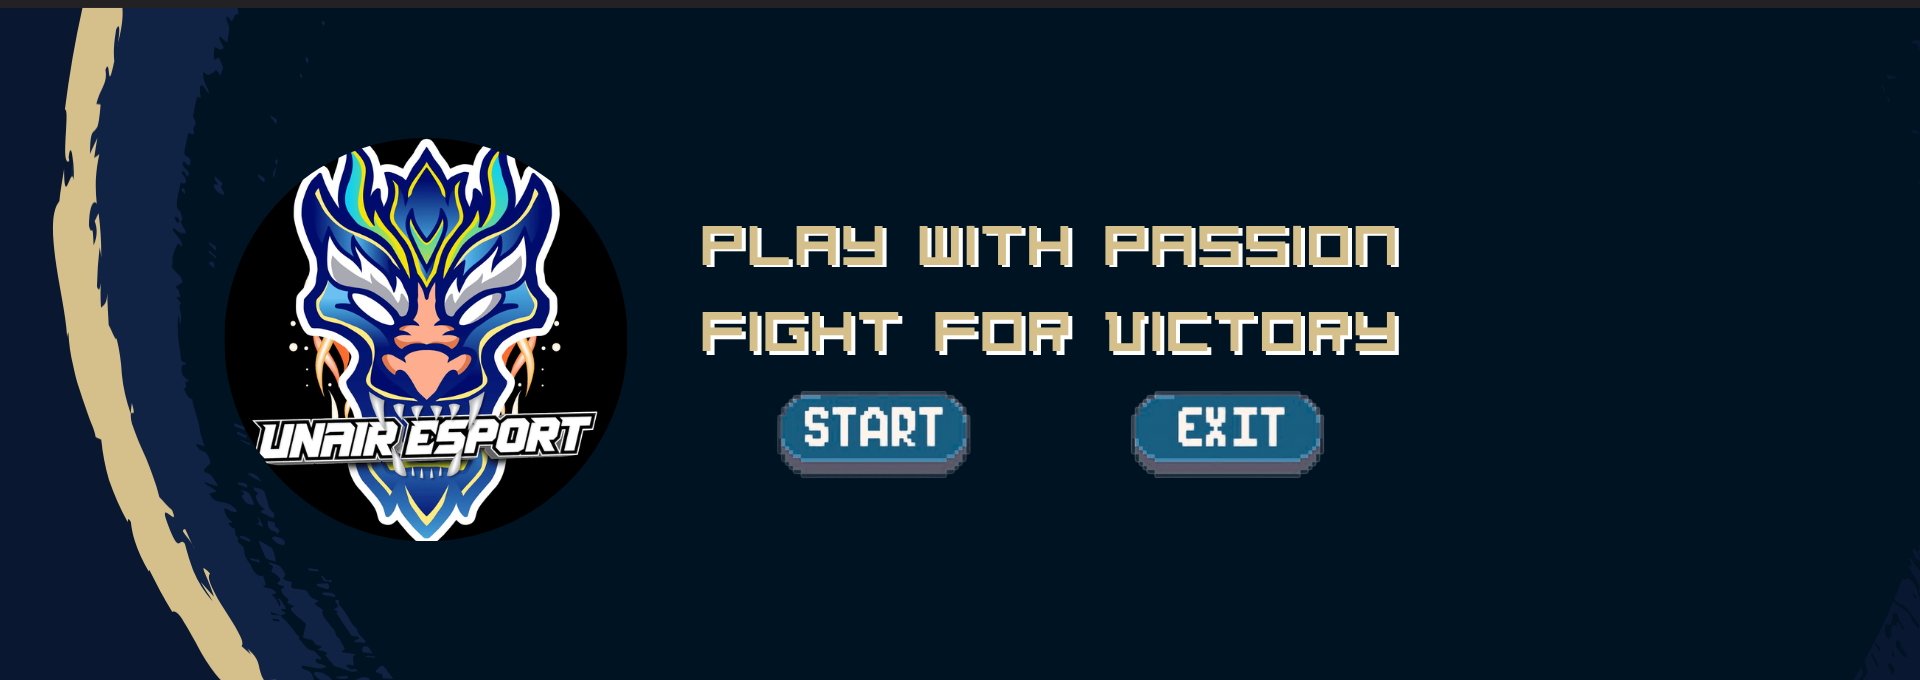
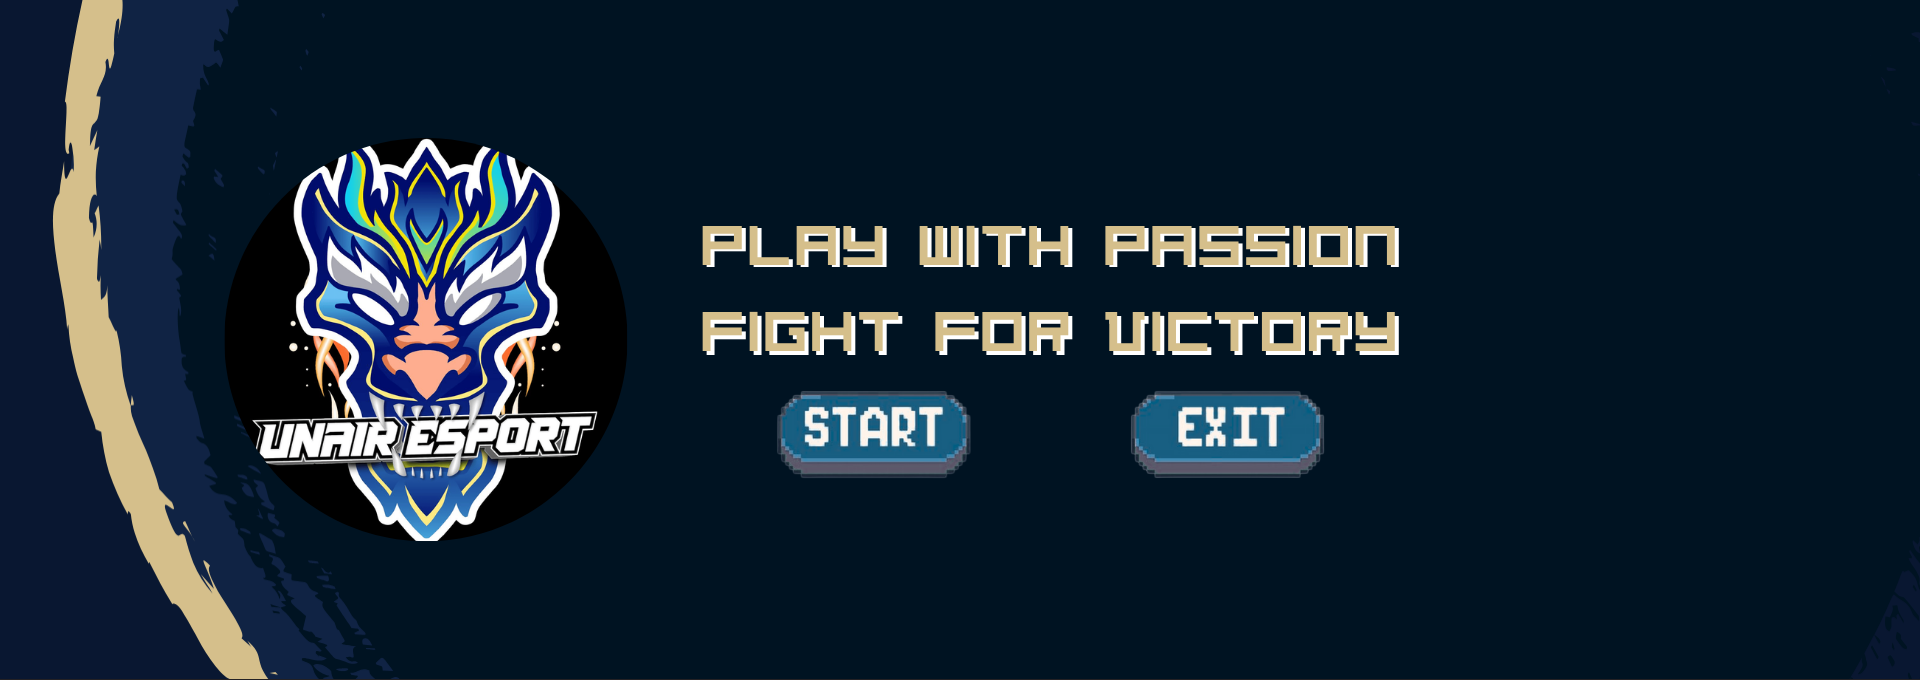
Finish make the main web.

diff --git a/index.html b/index.html
@@ -19,9 +19,9 @@
                 <div class="navBarLogo">
                     <div class="logoCircle"></div>
                 </div>
-                <div class="navBarJudul">
+                <a href="http://airlanggaesport.github.io/" class="navBarJudul">
                     UNAIR E-SPORT
-                </div>
+                </a>
                 <div class="navBarSpace"></div>
                 <div class="navBarMenu">
                     <input type="checkbox" id="menuCB">
@@ -63,7 +63,7 @@
                             </a>
                         </div>
                         <div class="NBM5" href="">
-                            <a href="">
+                            <a href="#PartnershipSec">
                                 <div class="menuChA">
                                     <span class="material-symbols-outlined" id="PartnerLog">handshake</span>
                                 </div>
@@ -309,50 +309,52 @@
                     DIVISION (STAFF AND PLAYER)
                 </div>
                 <div class="divisionCardDlider">
-                    <div class="divisionCard">
-                        <img src="" alt="">
-                        <a class="moreButtonDivision" href="">MORE</a>
-                    </div>
-                    <div class="divisionCard">
-                        <img src="" alt="">
-                        <a class="moreButtonDivision" href="">MORE</a>
-                    </div>
-                    <div class="divisionCard">
-                        <img src="" alt="">
-                        <a class="moreButtonDivision" href="">MORE</a>
-                    </div>
-                    <div class="divisionCard">
-                        <img src="" alt="">
-                        <a class="moreButtonDivision" href="">MORE</a>
-                    </div>
-                    <div class="divisionCard">
-                        <img src="" alt="">
-                        <a class="moreButtonDivision" href="">MORE</a>
-                    </div>
-                    <div class="divisionCard">
-                        <img src="" alt="">
-                        <a class="moreButtonDivision" href="">MORE</a>
-                    </div>
-                    <div class="divisionCard">
-                        <img src="" alt="">
-                        <a class="moreButtonDivision" href="">MORE</a>
-                    </div>
-                    <div class="divisionCard">
-                        <img src="" alt="">
-                        <a class="moreButtonDivision" href="">MORE</a>
-                    </div>
-                    <div class="divisionCard">
-                        <img src="" alt="">
-                        <a class="moreButtonDivision" href="">MORE</a>
-                    </div>
-                    <div class="divisionCard">
-                        <img src="" alt="">
-                        <a class="moreButtonDivision" href="">MORE</a>
+                    <div class="innerdivisionCardDlider">
+                        <div class="divisionCard">
+                            <div class="imgDivCard"></div>
+                            <a class="moreButtonDivision" href="">MORE</a>
+                        </div>
+                        <div class="divisionCard">
+                            <div class="imgDivCard"></div>
+                            <a class="moreButtonDivision" href="">MORE</a>
+                        </div>
+                        <div class="divisionCard">
+                            <div class="imgDivCard"></div>
+                            <a class="moreButtonDivision" href="">MORE</a>
+                        </div>
+                        <div class="divisionCard">
+                            <div class="imgDivCard"></div>
+                            <a class="moreButtonDivision" href="">MORE</a>
+                        </div>
+                        <div class="divisionCard">
+                            <div class="imgDivCard"></div>
+                            <a class="moreButtonDivision" href="">MORE</a>
+                        </div>
+                        <div class="divisionCard">
+                            <div class="imgDivCard"></div>
+                            <a class="moreButtonDivision" href="">MORE</a>
+                        </div>
+                        <div class="divisionCard">
+                            <div class="imgDivCard"></div>
+                            <a class="moreButtonDivision" href="">MORE</a>
+                        </div>
+                        <div class="divisionCard">
+                            <div class="imgDivCard"></div>
+                            <a class="moreButtonDivision" href="">MORE</a>
+                        </div>
+                        <div class="divisionCard">
+                            <div class="imgDivCard"></div>
+                            <a class="moreButtonDivision" href="">MORE</a>
+                        </div>
+                        <div class="divisionCard">
+                            <div class="imgDivCard"></div>
+                            <a class="moreButtonDivision" href="">MORE</a>
+                        </div>
                     </div>
                 </div>
             </div>
         </section>
-        <section class="PartnershipSec">
+        <section class="PartnershipSec" id="PartnershipSec">
             <div class="partnershipContainer">
                 <div class="partnershipTittle">
                     <h2>
@@ -383,7 +385,7 @@
             </div>
         </section>
     </main>
-    <footer>
+    <footer id="footer">
         <section class="footerSec" id="footerSec">
             <div class="footerContainer">
                 <div class="footerBox1"></div>

diff --git a/style.css b/style.css
@@ -1,7 +1,11 @@
 body {
     font-family: 'exo';
-    height: 150rem;
-    background-color: #242124;
+    width: 100%;
+    height: 247rem;
+
+    /* max-width: 100%; */
+    /* overflow-x: hidden; */
+    background-color: #000d16;
     /* filter: brightness(50%); */
 }
 #Main {
@@ -18,7 +22,7 @@ body {
     transition: background 0.4s ease-in-out;
 }
 #navBarScrolled.scrolled {
-    background: #333333;
+    background: #020625;
 }
 .navBarContainer {
     border: 0px solid black;
@@ -57,6 +61,8 @@ body {
     font-weight: 600;
     letter-spacing: 1px;
     color: whitesmoke;
+
+    text-decoration: none;
 }
 .navBarSpace {
     grid-area: spaceNB;
@@ -133,7 +139,7 @@ input#menuCB:checked ~ .menuContainer {
 }
 
 .mainImageBox {
-    border: 0px solid black;
+    border: 0px solid whitesmoke;
     width: 100%;
     height: 45rem;
 }
@@ -781,15 +787,15 @@ span#aboutLog, span#DivisionLog, span#WorkPLog, span#GallLog, span#PartnerLog, s
     align-items: center;
 }
 .numberAH, .teamAH, .matchPoAH, .matchWLAH, .netGameAH, .gameWLAH {
-    background-color: #ff914d;
+    background-color: #A3D8F4;
     color: #252525;
 }
 .numberBH, .teamBH, .matchPoBH, .matchWLBH, .netGameBH, .gameWLBH {
-    background-color: #ff914d;
+    background-color: #A3D8F4;
     color: #252525;
 }
 .numberCH, .teamCH, .matchPoCH, .matchWLCH, .netGameCH, .gameWLCH {
-    background-color: #ff914d;
+    background-color: #A3D8F4;
     color: #252525;
 }
 .teamAH, .teamBH, .teamCH {
@@ -834,34 +840,52 @@ span#aboutLog, span#DivisionLog, span#WorkPLog, span#GallLog, span#PartnerLog, s
     height: 22.5rem;
     box-sizing: border-box;
 
-    display: flex;
-    align-items: center;
-    justify-content: space-around;
-    overflow-x: auto;
+    overflow: hidden;
+    /* overflow-x: auto;
     overflow-y: hidden;
-    scroll-behavior: smooth;
-    padding-left: 2%;
-    padding-right: 2%;
+    scroll-behavior: smooth; */
     gap: 1.5%;
+    position: absolute;
 
-    cursor: grab;
+    /* cursor: grab; */
+}
+.innerdivisionCardDlider {
+    border: 0px solid white;
+    width: 172rem;
+    height: 22.5rem;
+    box-sizing: border-box;
+
+    display: grid;
+    grid-template-columns: repeat(10, 1fr);
+    grid-template-rows: 1fr;
+    /* overflow-x: auto;
+    overflow-y: hidden;
+    scroll-behavior: smooth; */
+    padding-left: 1%;
+    padding-right: 1%;
+    padding-top: 1%;
+    padding-bottom: 1%;
+    gap: 0.5%;
+    position: absolute;
+
+    /* cursor: grab; */
 }
 .divisionCard {
     border: 0px solid whitesmoke;
     box-sizing: border-box;
     border-radius: 30px;
-    width: 19%;
-    height: 94%;
+    width: 100%;
+    height: 100%;
     min-width: 19%;
 
     display: flex;
     flex-wrap: wrap;
     justify-content: center;
-    padding-top: 1%;
-    background-color: #292930;
-    box-shadow: 0 4px 22px #0005;
+    padding-top: 5%;
+    background-color: #222831;
+    box-shadow: 0 8px 24px rgba(52, 115, 97, 0.10);
 }
-.divisionCard img {
+.imgDivCard {
     width: 90%;
     height: 80%;
     border: 1px solid whitesmoke;
@@ -882,11 +906,12 @@ span#aboutLog, span#DivisionLog, span#WorkPLog, span#GallLog, span#PartnerLog, s
     text-decoration: none;
     font-size: 20px;
     font-weight: 500;
-    background-color: #ff914d;
-    color: #23262e ;
+    background-color: #347361;
+    color: #fff;
+    transition: background-color 0.3s;
 }
 .moreButtonDivision:hover {
-    background-color: #ffb380;
+    background-color: #4EB592;
 }
 
 .PartnershipSec {

diff --git a/script.js b/script.js
@@ -1,17 +1,22 @@
+//Dark effect when openning the Menu.
 const checkBMenu = document.getElementById ("menuCB");
 const menuContain = document.querySelector ("div.navBarMenu");
 const menuButt = document.querySelector ("label.menuCBZ");
 const mainTag = document.getElementById ('Main');
+const footerTag = document.getElementById ('footer');
 
 checkBMenu.addEventListener('change', function(){
     if (checkBMenu.checked) {
         mainTag.classList.add ('darkEffect');
+        footerTag.classList.add ('darkEffect');
     }
     else {
         mainTag.classList.remove ('darkEffect');
+        footerTag.classList.remove ('darkEffect');
     }
 });
 
+//NavBar appearance
 const navBarColor = document.getElementById ('navBarScrolled');
 window.addEventListener('scroll', function (){
     if (this.window.scrollY > 60) {
@@ -22,6 +27,7 @@ window.addEventListener('scroll', function (){
     }
 });
 
+//Hero section
 const gambarList = ["Image/image1.png", "Image/image2.png", "Image/image3.png"];
 let index = 0;
 const imageBox = document.getElementById ('imageBoxSlider');
@@ -41,3 +47,47 @@ function Prev() {
 }
 
 setInterval(() => { Next(); }, 5000);
+
+//Slider Grab
+let slider = document.querySelector ('div.divisionCardDlider');
+let innerSlider = document.querySelector ('div.innerdivisionCardDlider');
+
+let pressed = false;
+let startX, scrollLeft;
+let X;
+
+slider.addEventListener('mousedown', (e) => {
+  pressed = true;
+  startX = e.pageX - slider.offsetLeft;
+  scrollLeft = innerSlider.offsetLeft;
+  slider.style.cursor = 'grabbing';
+});
+slider.addEventListener ('mouseenter', () => {
+    slider.style.cursor = 'grab';
+});
+slider.addEventListener ('mouseup', () => {
+    slider.style.cursor = 'grab';
+});
+window.addEventListener ('mouseup', () => {
+    pressed = false;
+});
+
+slider.addEventListener('mousemove', (e) => {
+  if(!pressed) return;
+  e.preventDefault();
+  const x = e.pageX - slider.offsetLeft;
+  const walk = x - startX; // jarak geser dari titik awal
+  innerSlider.style.left = `${scrollLeft + walk}px`;
+  checkBoundary();
+});
+function checkBoundary() {
+  const outer = slider.getBoundingClientRect();
+  const inner = innerSlider.getBoundingClientRect();
+
+  if (parseInt(innerSlider.style.left) > 0) {
+    innerSlider.style.left = '0px';
+  }
+  else if (inner.right < outer.right) {
+    innerSlider.style.left = `-${inner.width - outer.width}px`;
+  }
+}
